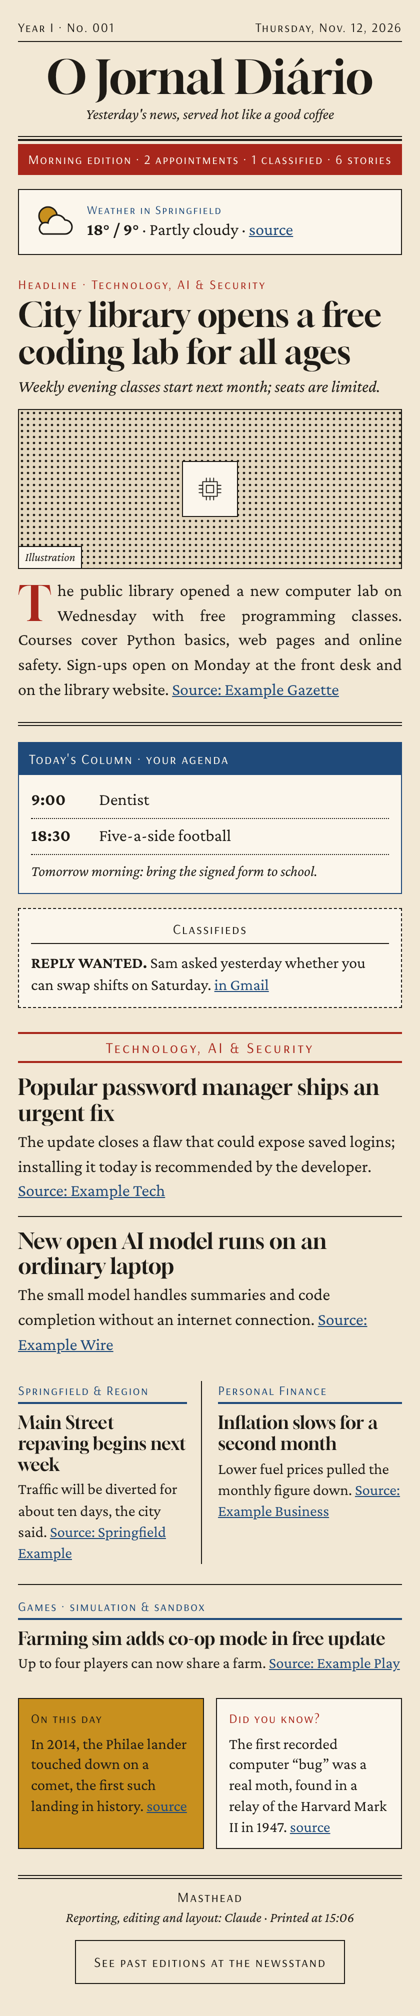
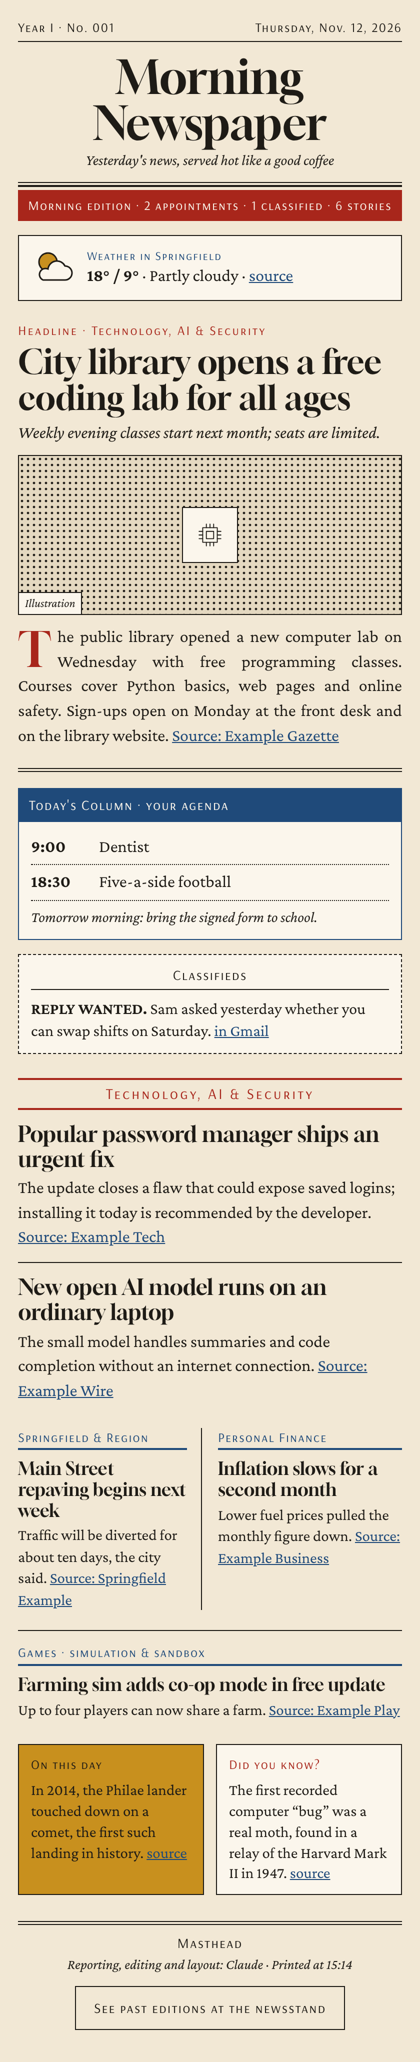
Rename to Morning Newspaper and add brand identity
- Default newspaper name now follows the reader's language
  (Morning Newspaper / O Jornal Matinal / El Diario Matinal),
  via default_newspaper_name in assets/i18n
- Add banner, logo and SVG emblem under docs/brand
- README header with the banner; refreshed example screenshot

Changed region(s): [[0.031, 0.0, 0.9595, 1.0]]

diff --git a/morning-newspaper/assets/archive.html b/morning-newspaper/assets/archive.html
@@ -38,7 +38,7 @@ a.edicao:hover,a.edicao:focus-visible{outline:3px solid var(--claro);outline-off
 <main class="banca">
 <header class="toldo">
 <div class="sc" id="kicker">Newspaper stand</div>
-<div class="nome display" id="nome">O Jornal Diário</div>
+<div class="nome display" id="nome">Morning Newspaper</div>
 <div class="sub" id="sub">Every edition, kept by date</div>
 </header>
 <div id="hoje"></div>
@@ -111,7 +111,7 @@ a.edicao:hover,a.edicao:focus-visible{outline:3px solid var(--claro);outline-off
       data = data || {};
       var labels = data.labels || {};
       Object.keys(labels).forEach(function (k) { if (labels[k] != null) L[k] = labels[k]; });
-      var name = data.newspaper || data.jornal || "O Jornal Diário";
+      var name = data.newspaper || data.jornal || "Morning Newspaper";
       apply(name);
       var list = Array.isArray(data.editions) ? data.editions.slice() : (Array.isArray(data.edicoes) ? data.edicoes.slice() : []);
       list.sort(function (a, b) { return String(pick(b, "date", "data")).localeCompare(String(pick(a, "date", "data"))); });

diff --git a/morning-newspaper/scripts/assemble.py b/morning-newspaper/scripts/assemble.py
@@ -318,7 +318,7 @@ def main():
 
     now = dt.datetime.now(tz)
     text_h = (h.get("text") or "").strip()
-    news_name = (cfg.get("newspaper") or {}).get("name") or "O Jornal Diário"
+    news_name = (cfg.get("newspaper") or {}).get("name") or L["default_newspaper_name"]
     ctx = {
         "HTML_LANG": L["html_lang"], "NEWSPAPER": news_name, "MOTTO": (cfg.get("newspaper") or {}).get("motto", ""),
         "YEAR_ROMAN": roman(year_n), "NUMBER_3": f"{number:03d}", "DATE_LONG": fmt_date(L["date_format"]),

diff --git a/morning-newspaper/references/archive.md b/morning-newspaper/references/archive.md
@@ -15,7 +15,7 @@ Use the session's artifact tools: list artifacts, get an artifact's state (versi
 
 ## Finding the newsstand
 1. If the request or the scheduled task prompt has the newsstand slug, use it.
-2. Otherwise list the reader's artifacts and look for one whose files include `editions/index.json` (check the most likely titles first: the newspaper name followed by " · " and the newsstand label, e.g. "O Jornal Diário · Banca").
+2. Otherwise list the reader's artifacts and look for one whose files include `editions/index.json` (check the most likely titles first: the newspaper name followed by " · " and the newsstand label, e.g. "O Jornal Matinal · Banca").
 3. More than one: use the most recent and, in an interactive session, say so in one line.
 4. None: this is a first run → `references/setup.md`.
 
@@ -23,7 +23,7 @@ Then read `config.json` and `editions/index.json` from it into `WORK/config.json
 
 ## Creating the newsstand (first time only)
 1. Run `assemble.py` without `--index`. It writes `index.html`, `config.json`, `editions/index.json` and today's edition into `WORK/archive/` and prints "NEW NEWSSTAND".
-2. Publish them in one call, from disk, creating the artifact with the title "<newspaper name> · <archive_title label>" (e.g. "O Jornal Diário · Newsstand") and the icon "newspaper".
+2. Publish them in one call, from disk, creating the artifact with the title "<newspaper name> · <archive_title label>" (e.g. "Morning Newspaper · Newsstand") and the icon "newspaper".
 3. In an interactive session, tell the reader the newsstand was created and give the slug, to put in the scheduled task prompt.
 
 ## Adding today's edition

diff --git a/README.md b/README.md
@@ -1,8 +1,10 @@
-# morning-newspaper
+<p align="center"><img src="docs/brand/banner.png" alt="Morning Newspaper" width="720"></p>
+
+# Morning Newspaper
 
 A Claude skill that delivers a **personal retro morning newspaper**: your agenda, the emails waiting for your reply, the weather and the news you care about, laid out like a 1980s–90s printed daily. Every edition is kept at a private **newsstand** page, so you can flip back through past days.
 
-The default name is **O Jornal Diário**. Rename it to anything you like during setup.
+The default name follows your language (**Morning Newspaper** in English, **O Jornal Matinal** in Portuguese, **El Diario Matinal** in Spanish). Rename it to anything you like during setup.
 
 <p align="center"><img src="docs/example.png" alt="Example edition with fictional content" width="360"></p>
 
@@ -56,6 +58,7 @@ morning-newspaper/            the skill (this folder is what goes in the zip)
 dist/morning-newspaper.zip    ready-to-upload skill
 build-zip.sh                  rebuilds the zip
 docs/example.png              screenshot with fictional content
+docs/brand/                   banner, logo and emblem (SVG)
 ```
 
 ## Contributing

diff --git a/morning-newspaper/SKILL.md b/morning-newspaper/SKILL.md
@@ -5,7 +5,7 @@ description: "Builds today's edition of a personal retro morning newspaper (1980
 
 # Morning Newspaper
 
-A personal newspaper delivered every morning, readable in five minutes with a coffee. It brings together the reader's day (agenda, emails waiting for a reply, weather) and the news they care about, laid out like a 1980s–90s printed newspaper. Every edition goes to a **newsstand**: a private artifact that keeps all editions by date. The default name is "O Jornal Diário"; each reader can rename it.
+A personal newspaper delivered every morning, readable in five minutes with a coffee. It brings together the reader's day (agenda, emails waiting for a reply, weather) and the news they care about, laid out like a 1980s–90s printed newspaper. Every edition goes to a **newsstand**: a private artifact that keeps all editions by date. The default name follows the reader's language ("Morning Newspaper" in English, "O Jornal Matinal" in Portuguese, "El Diario Matinal" in Spanish: `default_newspaper_name` in `assets/i18n/`); each reader can rename it.
 
 ## Language
 

diff --git a/morning-newspaper/references/setup.md b/morning-newspaper/references/setup.md
@@ -8,7 +8,7 @@ Ask only what the conversation or connected tools have not already answered:
 1. What should the newspaper call you? (first name or nickname)
 2. Which city should the weather and local news cover?
 3. Which topics do you want? Offer the defaults in `config.example.json` as a starting point (technology/AI/security, local news, personal finance, games) and let them add, remove or rename sections.
-4. Newspaper name: keep "O Jornal Diário" or choose another?
+4. Newspaper name: keep the default for their language (`default_newspaper_name` in `assets/i18n/`, e.g. "Morning Newspaper", "O Jornal Matinal") or choose another?
 5. What time should the paper be ready? (for the daily schedule; default 7:00)
 
 The language is the one they are writing in; confirm it only if it is unclear.
